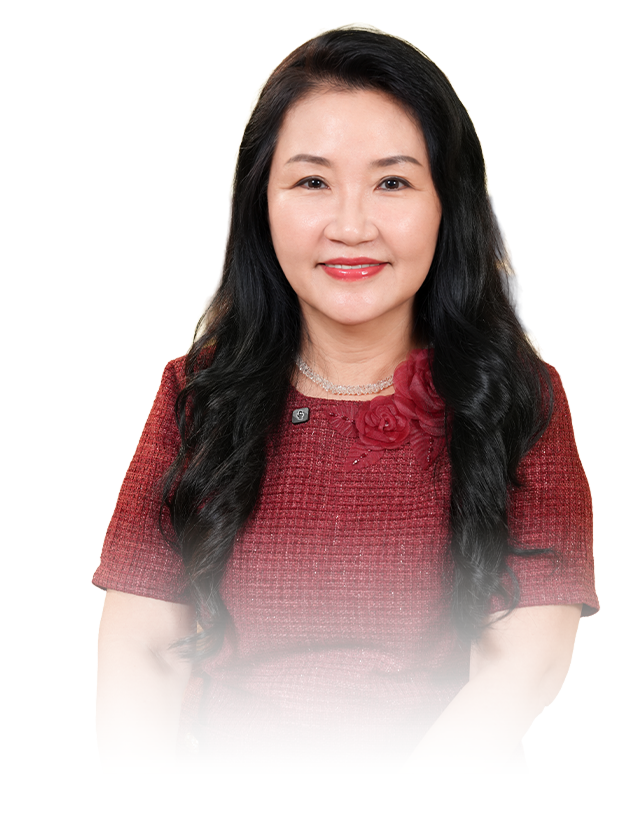
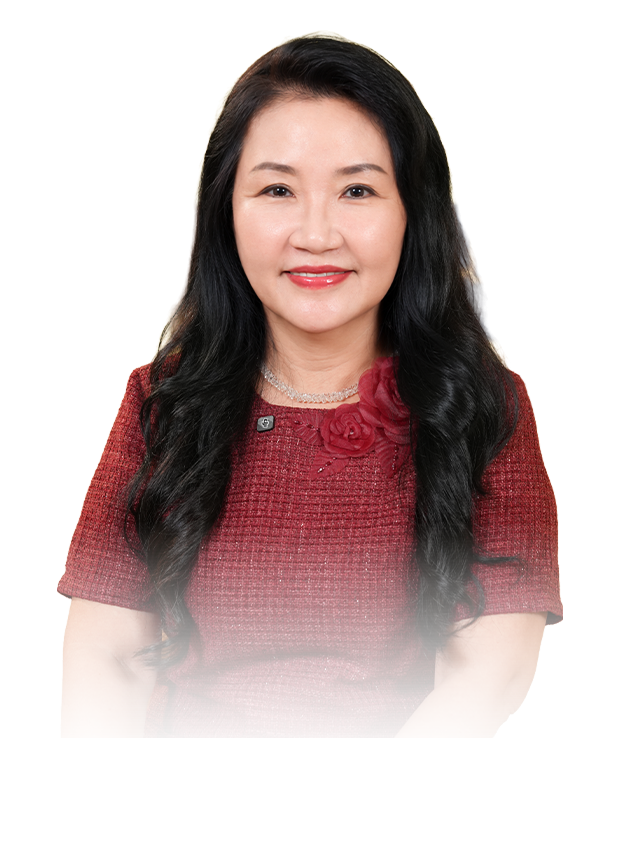
style(services): balance bilateral model image containers for symmetrical layout

diff --git a/wp-content/themes/mediora-clinic/assets/css/page-services.css b/wp-content/themes/mediora-clinic/assets/css/page-services.css
@@ -10,6 +10,70 @@
 /* Fallback & brand adjustment */
 .cy-services-intro .cy-text { color: #2C1200; }
 
+/* ---------- 1. Thiết lập Cân Đối Đối Xứng 2 Bên Cho Ảnh Người Mẫu (Section 1) ---------- */
+.cy-services-intro .cy-model-col,
+.cy-services-intro .cy-model-left,
+.cy-services-intro .cy-model-right,
+.cy-services-intro [data-ph*="Mẫu 1"],
+.cy-services-intro [data-ph*="Mẫu 2"] {
+  position: absolute !important;
+  top: calc(188 * var(--u)) !important;
+  width: calc(580 * var(--u)) !important;
+  height: calc(850 * var(--u)) !important;
+  aspect-ratio: 580 / 850 !important;
+  display: flex !important;
+  align-items: flex-end !important;
+  z-index: 1 !important;
+  pointer-events: none;
+}
+
+.cy-services-intro .cy-model-left,
+.cy-services-intro [data-ph*="Mẫu 1"] {
+  left: 0 !important;
+  right: auto !important;
+  justify-content: flex-start !important;
+}
+
+.cy-services-intro .cy-model-right,
+.cy-services-intro [data-ph*="Mẫu 2"] {
+  left: auto !important;
+  right: 0 !important;
+  justify-content: flex-end !important;
+}
+
+/* Tự động căn đối xứng & giữ đúng tỉ lệ dù tải ảnh kích thước bất kỳ lên */
+.cy-services-intro .cy-model-col img,
+.cy-services-intro .cy-model-left img,
+.cy-services-intro .cy-model-right img,
+.cy-services-intro [data-ph*="Mẫu 1"] img,
+.cy-services-intro [data-ph*="Mẫu 2"] img {
+  width: 100% !important;
+  height: 100% !important;
+  max-width: 100% !important;
+  max-height: 100% !important;
+  object-fit: contain !important;
+  object-position: bottom center !important;
+  display: block !important;
+  pointer-events: auto;
+  transition: transform .3s ease;
+}
+
+.cy-services-intro .cy-model-col:hover img,
+.cy-services-intro .cy-model-left:hover img,
+.cy-services-intro .cy-model-right:hover img {
+  transform: scale(1.02);
+}
+
+/* Trường hợp ảnh tải lên có nền vuông/chữ nhật cần phủ đầy khung */
+.cy-services-intro .cy-model-col.is-cover img,
+.cy-services-intro .cy-model-col img.is-cover,
+.cy-services-intro .cy-model-left.is-cover img,
+.cy-services-intro .cy-model-right.is-cover img {
+  object-fit: cover !important;
+  object-position: center top !important;
+  border-radius: 8px;
+}
+
 /* Modal Popup Consult */
 .popup-consult .modal-dialog {
   max-width: 580px;

diff --git a/wp-content/themes/mediora-clinic/page-services.php b/wp-content/themes/mediora-clinic/page-services.php
@@ -52,12 +52,12 @@ $clinic_name = function_exists( 'mediora_get_option' ) ? mediora_get_option( 'cl
 				<img src="<?php echo esc_url( $assets_uri . '/img-services/maintext.png' ); ?>" alt="Nâng cơ trẻ hóa bằng sợi sinh học GMISS" fetchpriority="high" width="1058" height="110">
 			</div>
 
-			<div class="cy-fig ph cy-hide-mb" data-ph="Mẫu 1 · 619×836" style="--x:0;--y:188;--w:619;--h:836;--o:0">
-				<img src="<?php echo esc_url( $assets_uri . '/img-services/mau-1.png' ); ?>" alt="Khách hàng <?php echo esc_attr( $clinic_name ); ?>" fetchpriority="high" width="619" height="836">
+			<div class="cy-fig ph cy-hide-mb cy-model-col cy-model-left" data-ph="Mẫu 1 · 580×850" style="--x:0;--y:188;--w:580;--h:850;--o:0">
+				<img src="<?php echo esc_url( $assets_uri . '/img-services/mau-1.png' ); ?>" alt="Khách hàng <?php echo esc_attr( $clinic_name ); ?>" fetchpriority="high" width="580" height="850">
 			</div>
 
-			<div class="cy-fig ph cy-hide-mb" data-ph="Mẫu 2 · 774×853" style="--x:1178;--y:188;--w:774;--h:853;--o:0">
-				<img src="<?php echo esc_url( $assets_uri . '/img-services/mau-2.png' ); ?>" alt="Khách hàng <?php echo esc_attr( $clinic_name ); ?>" fetchpriority="high" width="774" height="853">
+			<div class="cy-fig ph cy-hide-mb cy-model-col cy-model-right" data-ph="Mẫu 2 · 580×850" style="--x:1340;--y:188;--w:580;--h:850;--o:0">
+				<img src="<?php echo esc_url( $assets_uri . '/img-services/mau-2.png' ); ?>" alt="Khách hàng <?php echo esc_attr( $clinic_name ); ?>" fetchpriority="high" width="580" height="850">
 			</div>
 
 			<div class="cy-fig ph" data-ph="Subtext 1 · 735×183" style="--x:592;--y:263;--w:735;--h:183;--o:2">
